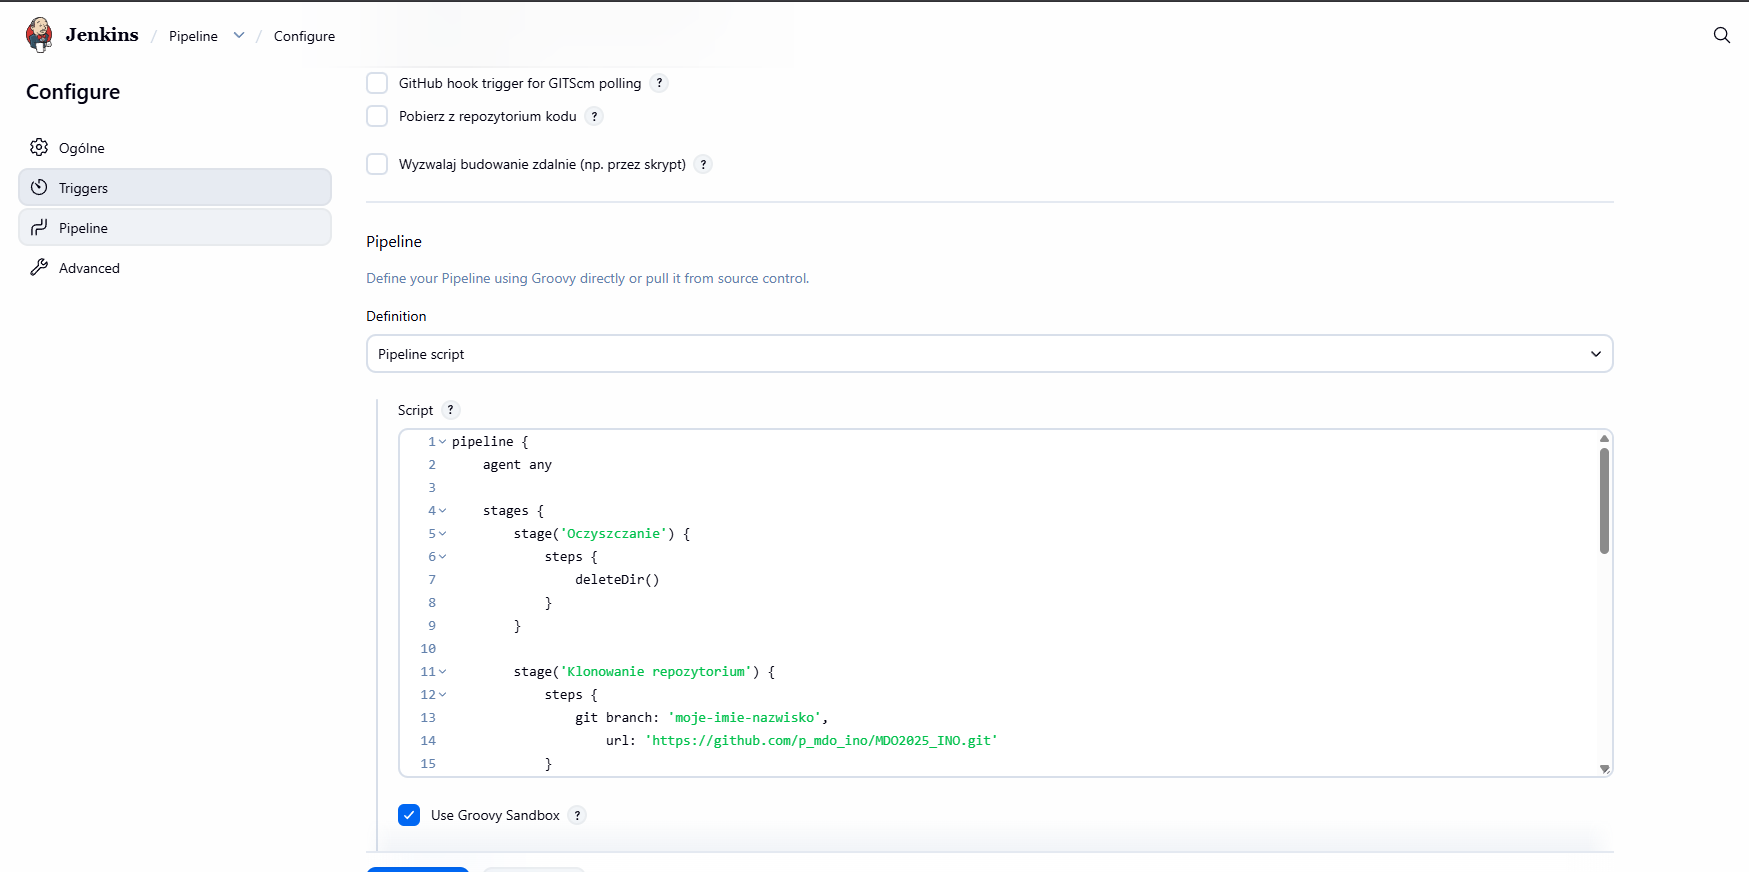
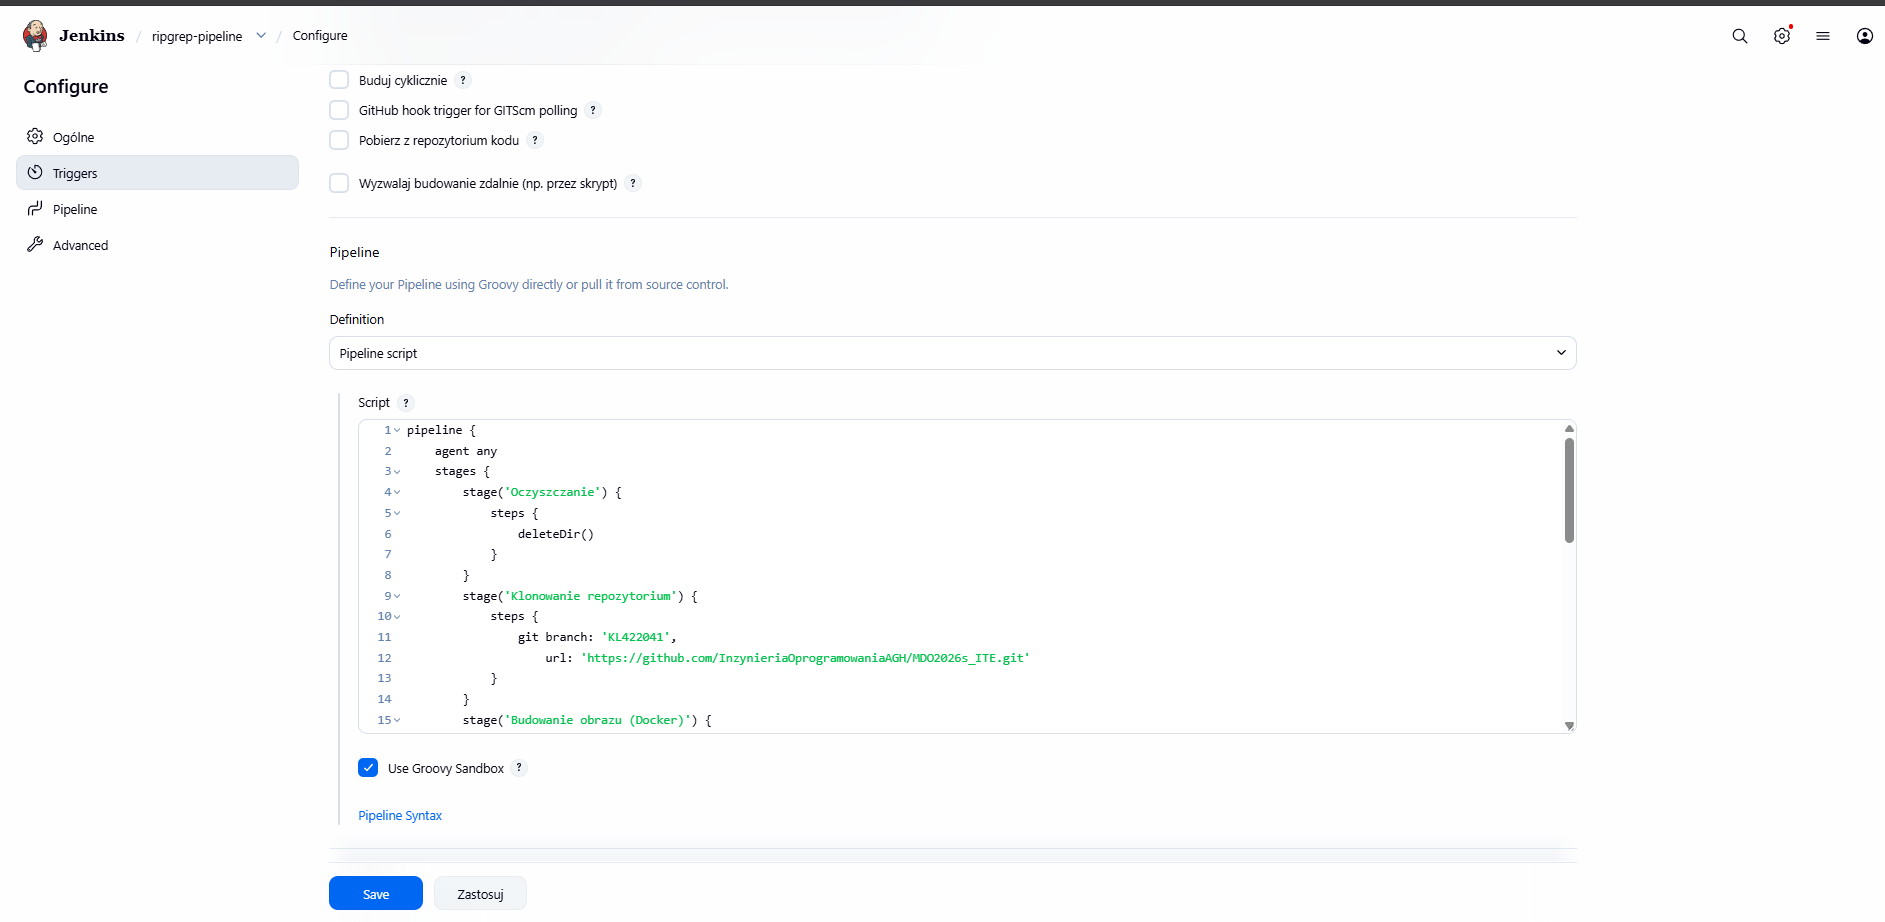
KL422041: sprawozdanie 2

diff --git a/ITE/GCL3/sprawozdanie2/README.md b/ITE/GCL3/sprawozdanie2/README.md
@@ -1,72 +1,178 @@
+# Sprawozdanie 2 - Kamil Lewandowski
 
-===lab5===
+> **Data:** 19.05.2026
+> **Środowisko:** Fedora Linux 43 Server Edition (VM) + host Windows, dostęp przez SSH
+>
+> **Projekt:** [ripgrep](https://github.com/BurntSushi/ripgrep) (Rust)
+>
+> **Branch repozytorium:** `KL422041`
 
-projekt wyświetlający uname
+---
+
+## Zajęcia 05 - Pipeline, Jenkins, izolacja etapów
+
+### Środowisko
+
+Instancja Jenkinsa została uruchomiona już na poprzednich zajęciach (sprawozdanie 1) zgodnie z [oficjalną instrukcją](https://www.jenkins.io/doc/book/installing/docker/)
+
+Archiwizacja i zabezpieczenie logów odbywa się poprzez wolumen `jenkins-data` montowany do `/var/jenkins_home`, w którym Jenkins przechowuje historię buildów i ich logi.
+
+---
+
+### Zadanie 1 - projekt `uname`
+
+Utworzono projekt, który w kroku budowania uruchamia powłokę z poleceniem `uname -a`.
+
 ![](1-uname.png)
 
-uruchomienie uname
+Po uruchomieniu projekt wyświetla informacje o systemie operacyjnym kontenera Jenkinsa (Linux + wersja jądra). Build zakończony powodzeniem:
+
 ![](2-uname-run.png)
 
-projekt który zwraca błąd gdy godzina jest nieparzysta
+---
+
+### Zadanie 2 - projekt zwracający błąd dla nieparzystej godziny
+
+Utworzono projekt `OddHourErr`, który w skrypcie powłoki sprawdza aktualną godzinę i wychodzi z kodem `1` jeśli jest nieparzysta:
+
+```bash
+HOUR=$(date +%H)
+echo "Godzina: $HOUR"
+if [ $((HOUR % 2)) -ne 0 ]; then
+    echo "Err: Godzina $HOUR jest nieparzysta"
+    exit 1
+else
+    echo "Godzina $HOUR jest parzysta. Wszystko OK."
+    exit 0
+fi
+```
+
 ![](3-odd-hour.png)
 
-odpalenie programu sprawdzającego godzinę
+Oba uruchomienia projektu odbyły się w godzinach nieparzystych (7:21 i 11:49), więc projekt poprawnie zakończył się błędem:
+
 ![](4-odd-hour-run.png)
 
-pobranie kontenera ubuntu
+---
+
+### Zadanie 3 - projekt pobierający obraz Ubuntu
+
+Projekt `Ubuntu` wykonuje polecenia `docker pull ubuntu:latest` oraz `docker images`
+
 ![](5-ubuntu.png)
 
-sprawdzenie poprawności działania
+Build kończy się powodzeniem, obraz `ubuntu:latest` zostaje pobrany:
+
 ![](6-ubuntu-run.png)
 
+---
+
+### Zadanie 4 - obiekt typu Pipeline
+
+Utworzono obiekt typu **Pipeline** i wpisano definicję bezpośrednio w pole „Pipeline script".
+
+Pipeline realizuje następujące kroki:
+1. Sprzątanie workspace'a (`deleteDir()`)
+2. Klonowanie repozytorium przedmiotowego (`MDO2025_INO`) z osobistej gałęzi
+3. Budowanie obrazu Dockera z pliku `Dockerfile` w workspace
+4. Weryfikacja zbudowanego obrazu (`--version`)
 
 ![](7-pipeline-script.png)
 
+Pipeline uruchomiono dwa razy - drugi raz potwierdził, że workspace jest poprawnie czyszczony przed każdym uruchomieniem (`deleteDir()`), a klonowanie i build odbywają się od nowa.
+
+![](14-double-success.png)
+
+---
+
+## Zajęcia 06 - Pełny pipeline CI/CD dla ripgrep
+
+### Plan - diagramy UML
+
+#### Wymagania wstępne środowiska
+
+- Host z Dockerem (Linux/Windows z WSL2)
+- Kontener Jenkins z BlueOcean (port 8080)
+- Kontener DIND (Docker-in-Docker) podpięty do tej samej sieci `jenkins`
+- Dostęp sieciowy do GitHub (klonowanie repo) i Docker Hub (pobieranie obrazów bazowych)
+- Wolumeny: `jenkins-data` (persystencja), `jenkins-docker-certs` (TLS między Jenkinsem a DIND)
 
 
+#### Diagram aktywności
+ 
+
+```mermaid
+flowchart LR
+    A([trigger]) --> B[Collect] --> C[Build] --> D[Test] --> E[Report] --> F([end])
+```
+ 
+#### Diagram wdrożeniowy
+ 
+
+```mermaid
+flowchart LR
+    GH[(GitHub)] --> J[Jenkins]
+    J --> Builder --> Tester
+    Builder --> Deploy
+    Deploy --> Deb[(.deb)]
+```
+ 
+---
 
 
-pipeline {
-    agent any
+## Zajęcia 07 - Jenkinsfile
 
-    stages {
-        stage('Oczyszczanie') {
-            steps {
-                deleteDir()
-            }
-        }
+### Migracja pipeline'u do repozytorium
 
-        stage('Klonowanie repozytorium') {
-            steps {
-                git branch: 'moje-imie-nazwisko', 
-                    url: 'https://github.com/p_mdo_ino/MDO2025_INO.git'
-            }
-        }
+W konfiguracji obiektu Pipeline zmieniono *Definition* z „Pipeline script" na **„Pipeline script from SCM"** i dokonana konfiguracji:
 
-        stage('Budowanie obrazu (Docker)') {
-            steps {
-                script {
-                    sh 'docker build -t my-custom-builder:latest .'
-                }
-            }
-        }
+![](8-pipeline-SCM.png)
 
-        stage('Weryfikacja buildera') {
-            steps {
-                sh 'docker run --rm my-custom-builder:latest --version'
-            }
-        }
-    }
-    
-    post {
-        always {
-            echo 'Zakończono wykonywanie Pipeline.'
-        }
-        success {
-            echo 'Sukces! Obraz został zbudowany poprawnie.'
-        }
-        failure {
-            echo 'Coś poszło nie tak. Sprawdź logi powyżej.'
-        }
-    }
-}
+
+Dzięki temu Jenkins przed każdym buildem pobiera świeży Jenkinsfile z repozytorium.
+
+---
+
+### Problemy i ich rozwiązanie
+
+Pierwsze uruchomienia pipelineu kończyły się błędami.
+
+**Problem 1:** `cargo install cargo-deb` próbował zainstalować wersję 3.7.0, która wymaga Rusta 1.85, podczas gdy obraz bazowy miał Rusta 1.83.
+
+![](9-wrong-cargo-version.png)
+
+więc obniżono wersję cargo-deb do 3.6.2:
+
+```dockerfile
+RUN cargo install cargo-deb --version 3.6.2
+```
+
+Nie rozwiązało to problemu, ponieważ nawet starsza wersja cargo-deb ściąga zależności, które wymagają funkcji `edition2024`:
+
+![](10-wrong-version-v2.png)
+
+więc podbito wersję Rust w obrazie bazowym:
+
+![](10-fix.png)
+
+**Problem 2:** `cargo deb` nie znalazł man page i completions dla ripgrepa:
+
+![](11-wrong-path.png)
+
+W ripgrep 14.x build script nie generuje już man i completions automatycznie. Trzeba je wygenerować ręcznie używając samej skompilowanej binarki:
+
+![](12-fix.png)
+
+```dockerfile
+RUN mkdir -p deployment/deb && \
+    ./target/release/rg --generate man > deployment/deb/rg.1 && \
+    ./target/release/rg --generate complete-bash > deployment/deb/rg.bash && \
+    ./target/release/rg --generate complete-fish > deployment/deb/rg.fish && \
+    ./target/release/rg --generate complete-zsh > deployment/deb/_rg && \
+    ./target/release/rg --generate complete-powershell > deployment/deb/_rg.ps1
+```
+
+Ostatecznie całość działa:
+
+![](13-SUCCESS.png)
+
